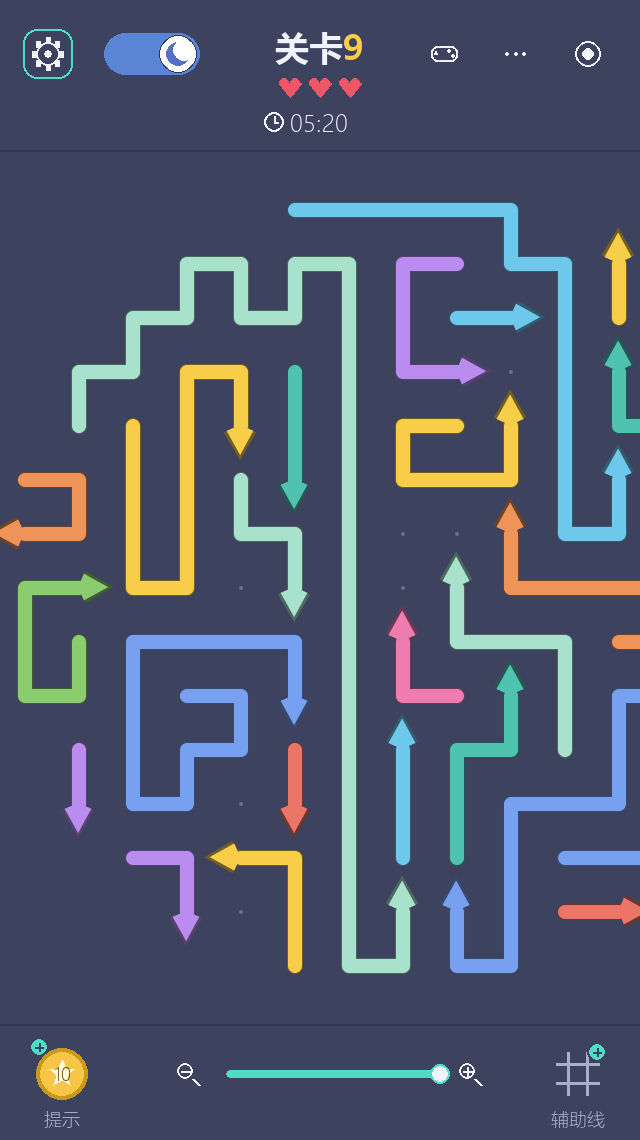
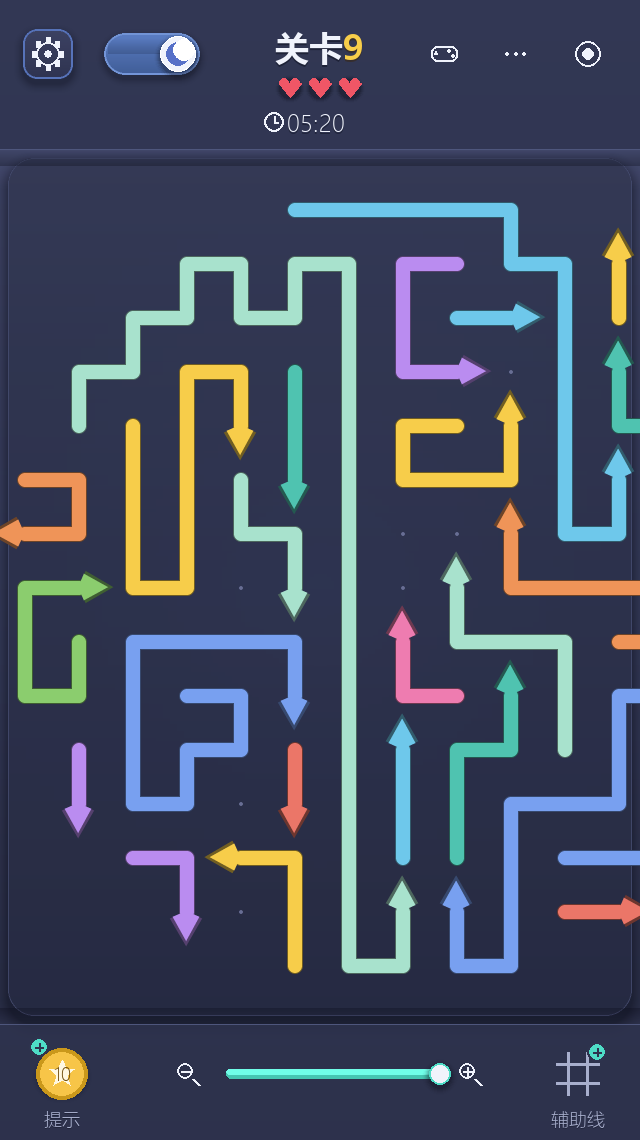
docs: 同步界面观感的说明、测试记录 T12 与重出的截图
- README：补「界面观感」一节（渐变背景 / 柔光 / 圆角面板 / 玻璃工具栏 / 按钮三态），项目结构加 paint.py 与 perf_bench.py，用例数 227，截图表补设置面板与日间结算
- docs/design.md：新增第 8 章「界面观感：渐变、柔光、投影、卡片」，写清 paint.py 的『参数 -> 预渲染贴图 -> 缓存 -> blit』套路、为什么大图要 2 倍画再缩回、缓存键为什么要含颜色、滑杆为什么不走缓存、以及各界面整帧耗时表；原「扩展功能清单」顺延为第 9 章
- docs/test-record.md：标题扩到 T12，新增 T12（34 个用例的像素级验证 + 排版回归 + 耗时），汇总改为 227 passed，已知限制补 paint.py 缓存的失效条件；顺带补上上一轮漏掉的 T11 标题与 193 passed
- AIGC记录.md：汇总表补第 15 条，新增「记录 I：界面美化 —— 用预渲染贴图 + 缓存换层次感」，复查提醒补 6 条
- assets/screenshots/ 重出 14 张（新增 settings.png、level_clear_day.png）

diff --git a/AIGC记录.md b/AIGC记录.md
@@ -23,10 +23,11 @@
 | 11 | 修复「关卡没有阻挡、无脑必通关」 | DeepSeek | 玩家反馈「关卡设计得互相没有阻挡，直接是必通关」，要求做成真的需要排序才能过 | 定位到生成器第二条约束（身体不许压在别人射线上）与第一条合起来等价于 `射线(a) ∩ 身体(b) = ∅`，数学上排除了任何阻挡；改为单约束 + 新增 `ray_pref` 难度旋钮，12 关全部重新生成并配出递减难度曲线 | 开局能直接点的箭从 12 关全部 100% 变为 67% → 11% 逐关递减；被挡比例 33% → 89%；填充率反而从 0.92 升到 0.94 ~ 1.00 | 先写诊断脚本量出「100% 可飞、0% 被挡」才动手改；把当初锁住这个 bug 的测试改成反向断言 |
 | 12 | 求解器重写为拓扑排序 | DeepSeek | 关卡有阻挡后，提示与 AI 自动通关开始报「这一步好像卡住了」 | 发现原 DFS + 记忆化在平均四五支可飞、深度二十层的盘面上会指数爆炸，60 万节点上限打满，**把有解的关卡判成无解**；改为「谁挡谁」建图 + Kahn 拓扑排序，O(n²) 精确求解，有环才判无解 | 12 关全部毫秒级求解成功；新增 `tests/test_blocking.py` 覆盖阻挡链 / 环路 / 性能 | 补「求解器入度为 0 的集合必须与棋盘可飞集合完全一致」的交叉验证测试 |
 | 13 | 修复飞出动画不平滑（转弯处抖动） | DeepSeek | 玩家反馈「线飞出去的时候不够平滑，特别是转弯处」 | 定位到飞出采样只按整格取点，落在两采样点之间的拐角被连成一条斜弦切掉，且随相位每秒「削平复原」26 次；改为取折线真正的一段（`flow_points`，长度守恒），圆点与箭头改用 4 倍超采样贴图做抗锯齿，描边只在拐点与两端补圆点，单帧步进加 50 ms 上限 | 转弯处不再抖动，线在飞行中厚度与长度恒定；新增 `tests/test_motion.py` 22 个用例，全量 150 个用例通过，整帧 4.3 ms | 先量化（采样点、折线长度、像素厚度）再动手；否掉「整幅画面超采样」改用两处小贴图；发现 `.git` 对象库损坏后从远端恢复仓库并关掉 `gc.auto` |
+| 15 | 界面 / 背景 / 按钮美化 | DeepSeek | 玩家反馈「界面、背景、按钮等再美化一下」 | 新增 `game/paint.py`：竖向渐变、径向柔光、圆角投影、卡片面（渐变+圆角+细描边+顶部高光+投影）、文字阴影，全部按参数预渲染并缓存；`theme.py` 补 17 个层次配色字段（日夜各一套）；背景改渐变+柔光，棋盘垫圆角面板，顶底栏改半透明玻璃+渐隐阴影，按钮/卡片/菜单项/滑杆全部改渐变+描边+投影，按钮悬停提亮描边、按下下沉 2 像素 | 界面有了层次，不再是「纯色底 + 硬描边」；新增 `tests/test_paint.py` 34 个用例，全量 227 个用例通过；`tools/perf_bench.py` 量得各界面整帧 2.45~5.72 ms，无回退 | 顺手修掉三处排版事故（开始页文字压在卡片外、选关页下半屏大片空白、菜单最后一项顶在面板底边上）；新增离屏截图 `settings.png` / `level_clear_day.png` 逐张人工核对 |
 
 ---
 
-## 详述：八条值得单独讲的记录
+## 详述：九条值得单独讲的记录
 
 ### 记录 A：环境问题 —— 为什么用 `pygame-ce` 而不是 `pygame`
 
@@ -215,6 +216,45 @@
 
 ---
 
+### 记录 I：界面美化 —— 用「预渲染贴图 + 缓存」换层次感
+
+- **工具**：DeepSeek
+- **提出的要求**：玩家反馈「界面、背景、按钮等再美化一下」。
+- **AI 完成内容**：
+  1. **先判断「平」在哪儿**：把六张截图并排看了一遍，问题很清楚 —— 背景是一块纯色、
+     没有任何明暗变化；按钮、卡片、菜单项都是「一块纯色 + 一圈硬描边」，跟背景糊在
+     一起；按下去只是换个颜色，没有任何物理反馈。所以要做的是**层次**，而不是换配色；
+  2. **单独的绘制模块**：新增 `game/paint.py`，提供五样原语 —— 竖向渐变、径向柔光、
+     圆角投影、卡片面（渐变填充 + 圆角裁剪 + 细描边 + 顶部高光 + 投影）、文字阴影。
+     统一走「参数 → 预渲染贴图 → 缓存 → blit」，颜色进缓存 key，切主题自动换一套；
+  3. **配色补齐**：`theme.py` 的 `Palette` 加了 17 个字段（渐变两端色、柔光色、栏面色
+     与分隔线、棋盘面板三色、卡片三色、顶部高光、投影参数、按钮三段色、强调色），
+     日夜各一套，旧字段一个没删；
+  4. **逐个套上去**：背景→渐变+柔光；棋盘→圆角面板（渐变+细描边+投影）；顶栏底栏→
+     半透明玻璃 + 1 像素分隔线 + 朝盘面一侧的渐隐阴影；按钮→渐变+描边+投影，悬停提亮
+     描边、按下下沉 2 像素并收起投影；菜单项→悬停加圆角高亮 + 左侧强调条；滑杆→凹槽
+     轨道 + 上下双色的已填充段；拨杆滑块、金币、红心都补了一层投影；
+  5. **顺带修掉三处排版事故**（都是画出来才看见的）：开始页的规则文字比卡片还宽、
+     直接压在卡片边框上；选关页下半屏空了一大片；菜单最后一项正好顶在面板底边上。
+- **实际效果**：界面从「纯色底 + 硬描边」变成有层次的卡片式界面；`tools/perf_bench.py`
+  量得各界面整帧 2.45~5.72 ms（最贵的是菜单展开，要整屏铺一层半透明遮罩），
+  远在 60 FPS 的 16.7 ms 预算之内。新增 `tests/test_paint.py`（34 个用例），
+  全量 227 个用例通过。
+- **人工修改**：
+  - **没有直接换配色**：先看截图定位到「缺层次」，才决定做渐变 + 投影 + 高光，
+    配色只是在原有基础上补齐了几组「成对」的色（深色端/浅色端、上色/下色）；
+  - 大图**统一按 2 倍画再缩回来**，圆角与描边就自带抗锯齿了 —— 比给每个圆角单独
+    做抗锯齿省事得多；缩小时透明处必须填成填充色，否则边缘渗黑（这个坑在记录 G
+    做圆点时已经踩过一次）；
+  - 滑杆的已填充段**故意不走去缓存的卡片贴图**：拖动时宽度每帧都变，缓存会被灌满
+    然后整片清空，反倒比直接画两个圆角矩形更费 —— 这是自己权衡后改掉的；
+  - 修菜单留白时没有直接拍一个更大的高度，而是把「项数 × 52 + 标题区 + 底部留白」
+    算成了公式，并把这个关系写进测试断言（`menu.rect.bottom - last.bottom >= 18`）；
+  - 写「线宽处处相等」这类断言时踩过一次自己量错行的坑（见记录 H），所以这次所有
+    像素断言都先打印实际值确认，再写死阈值。
+
+---
+
 ## 复查提醒（助教可能问到的点）
 
 - `can_fly_arrow` 为什么只看箭头射线、不需要检查身体路径？（因为身体沿自身折线滑出，不横扫）
@@ -253,3 +293,20 @@
 - 圆点直径为什么必须严格等于线宽？（pygame 画宽 `w` 的线涂的是 `y_center-(w-1)//2`
   起的 `w` 行，圆点若按画整数圆的老规矩取 `2r+1`，就比线宽多 1 像素，每个拐点、
   每个端头都会鼓出一小块 —— 这就是放大了看「线上挂着一串疙瘩」的真正原因）
+- 界面「美化」具体改了什么？（背景换成竖向渐变 + 一团柔光；棋盘垫在圆角面板上；
+  顶栏底栏做成半透明玻璃 + 渐隐阴影；按钮、卡片、菜单项、滑杆全部改成渐变填充 +
+  细描边 + 投影；按钮悬停提亮描边、按下下沉 2 像素并收起投影）
+- 为什么这些效果在 pygame 里要「预渲染成贴图」？（pygame 画不出柔边，渐变、柔光、
+  模糊投影都得先画好再贴；所以统一走「参数 → 贴图 → 缓存 → blit」，一帧只是几次
+  blit。缓存的 key 里包含全部颜色，切主题会自动换一套，不需要手动清）
+- 大图为什么要按 2 倍画再缩回来？（圆角、斜边、描边一次就都有抗锯齿了，比给每个
+  圆角单独做抗锯齿省事。缩小时透明处要填成填充色，否则边缘会渗黑）
+- 缓存有没有上限？滑杆为什么不走缓存？（有上限，超了就整片清空；滑杆已填充的那一段
+  宽度每帧都在变，走缓存会被不停灌满然后清空，反倒比直接画两个圆角矩形更费）
+- 加了这么多贴图，帧率还够吗？（`tools/perf_bench.py` 量的稳态：开始页 3.52 ms、
+  选关页 4.33 ms、第 1 关 2.45 ms、第 12 关 3.44 ms、飞行中 3.39 ms、菜单展开 5.72 ms，
+  都在 16.7 ms 的预算之内）
+- 怎么证明「美化」没有把排版或交互改坏？（`tests/test_paint.py` 34 个用例：像素级的
+  渐变 / 柔光 / 投影 / 卡片断言，按钮三态必须互不相同且按下下沉 2 像素，两套主题字段
+  齐全，6 个界面 × 2 套主题整页渲染且颜色数 > 6，菜单最后一项离底边 ≥ 18 像素，
+  以及「改了菜单项间距后点击仍然命中正确的项」）

diff --git a/docs/test-record.md b/docs/test-record.md
@@ -1,8 +1,8 @@
-# 测试记录（T01 – T10）
+# 测试记录（T01 – T12）
 
 - 运行环境：Windows 11 / Python 3.14.0 / pygame-ce 2.5.8 / pytest 9.x
 - 运行方式：项目根目录执行 `python -m pytest -q`（测试在 SDL dummy 驱动下无窗口运行）
-- 汇总结果：**104 passed**，耗时约 6.6 s
+- 汇总结果：**227 passed**，耗时约 12.2 s
 
 ---
 
@@ -244,7 +244,7 @@
       颜色（不是空盘 / 没画出来）；
   12. **引脚检查**：箭头不会大到跨出自己那一格；飞行中箭头画在线的前端。
 - **预期**：全部通过。
-- **实际**：43 个用例全过，全量 **193 个用例**全过。
+- **实际**：43 个用例全过，当轮全量 193 个用例全过。
   另用 `tools/screenshot.py` 重出 12 张截图（README 里用的那批）人工核对：
   线宽、箭头形态、描边浓淡与参考录屏基本一致，两条线挨着的地方也能分清了。
 - **结论**：线宽对齐参考图（格距的 0.30），箭头由等腰三角改为飞镖，整支箭加了一圈
@@ -254,11 +254,64 @@
 
 ---
 
+## T12 界面观感（背景渐变、柔光、投影、卡片、按钮三态）
+
+- **目的**：玩家反馈「界面、背景、按钮等再美化一下」，并防止「美化」把排版或
+  交互点坏。原来的界面是一块纯色底 + 一圈硬描边的扁平风格：背景没有任何层次，
+  按钮和卡片跟背景糊在一起，按下去除了换个颜色没有任何反馈。
+- **用例**：`tests/test_paint.py`（34 个用例）。
+- **做法**：新增 `game/paint.py` 提供五样「可缓存」的绘制原语 —— 竖向渐变、
+  径向柔光、圆角投影、卡片面（渐变 + 圆角 + 细描边 + 顶部高光 + 投影）、文字阴影；
+  配色补进 `theme.py`（渐变两端色、柔光色、栏面色与分隔线、卡片三色、顶部高光、
+  投影参数、按钮三段色，日夜各一套）；然后逐个套到背景、棋盘面板、顶栏底栏、
+  按钮、菜单面板、滑杆、拨杆与各界面卡片上。
+- **步骤**：
+  1. **渐变**：两端必须等于给定色、逐行单调、同一行横向完全同色（别把渐变做成斜的）；
+     再次调用命中缓存（同一个对象）；
+  2. **柔光**：中心 alpha 最亮、向外单调衰减、最边缘接近全透明；所有半透明像素的
+     RGB 必须等于柔光自身的颜色（混进黑色就是缩小时渗了黑边）；
+  3. **投影**：沿中线往外采样，alpha 单调变淡，最外圈几乎为 0；底图尺寸要算上
+     向下偏移的那一截；四周确实变暗，而**卡片本体那一块不许被涂脏**；
+  4. **卡片**：圆角真的切掉（角上 alpha=0、正中 alpha=255）、竖向渐变、描边落在
+     形状内侧、`alpha<255` 时整块按比例半透明、有投影时 offset 正好等于留白量、
+     `draw_card` 落位精准、`draw_panel` 取的是主题的卡片三色；
+  5. **缓存**：按参数分键；连续申请 `_CACHE_LIMIT + 40` 张不同尺寸的底图之后，
+     条数仍然不超过上限（不然拖滑杆会一路把内存灌满）；
+  6. **文字阴影**：垫了阴影之后，被涂到的行数正好往下多出 offset 的量，
+     多出来的那几行里确实有投影像素；
+  7. **按钮三态**：常态 / 悬停 / 按下三张图的像素必须两两不同；按下时整体下沉
+     2 像素（原顶边那两行空了）、并且收起投影；`ghost` 次按钮明显比主按钮「安静」；
+  8. **主题**：两套主题的新字段都齐全（3 通道、0~255），`card_shadow` 是
+     `(spread, alpha, color, dy)`；夜间背景与按钮确实比日间暗；
+  9. **整页渲染**：6 个界面状态 × 日夜两套主题各渲染一遍，不崩、且画面里的颜色数
+     超过 6 种（背景退化成一整块纯色会被这条抓住）；背景上下两端的颜色必须不同
+     （渐变真的在）；
+  10. **排版回归**：菜单 / 设置面板的最后一项离底边至少留 18 像素（真的踩到过
+      「最后一项顶在面板底边上」）；开始页「进度卡 → 按钮 → 次按钮」依次不重叠；
+      改了 `_item_rect` 的间距之后，点击命中仍然落在正确的菜单项上；
+  11. **耗时**：连画 20 帧，平均每帧 < 40 ms（阈值放得很宽，只抓明显回退）。
+- **预期**：全部通过。
+- **实际**：34 个用例全过，全量 **227 个用例**全过。
+  另用 `tools/perf_bench.py` 量了各界面在日夜两套主题下的整帧耗时（缓存建好后的稳态）：
+  开始页 3.52 ms、选关页 4.33 ms、第 1 关 2.45 ms、第 12 关 3.44 ms、
+  第 12 关飞行中 3.39 ms、菜单展开 5.72 ms、日间第 12 关 3.39 ms，
+  都远在 60 FPS 的 16.7 ms 预算之内。
+  截图侧新增两张（`settings.png`、`level_clear_day.png`），连同其余 12 张一起重出，
+  逐张人工核对过。
+- **结论**：背景有了渐变与柔光、棋盘垫在圆角面板上、工具栏变成半透明玻璃并带渐隐
+  阴影、按钮与卡片有渐变与投影、按下会下沉；界面层次分明，整帧耗时没有回退。
+
+---
+
 ## 未覆盖 / 已知限制
 
 - `game/audio.py` 的音效只在有真实音频设备时才会响，测试环境用 dummy 驱动，只验证了
   「初始化失败时不崩溃」。
-- `game/hud.py`、`game/icons.py` 的绘制正确性靠 `tools/screenshot.py` 离屏出图人工核对，
-  没有做像素级断言（顶栏 / 底栏 / 菜单 / 日间主题各出一张图）。
+- `game/hud.py`、`game/icons.py` 的**具体画法**仍然靠 `tools/screenshot.py` 离屏出图人工
+  核对（顶栏 / 底栏 / 菜单 / 设置 / 日间主题各出一张图），没有逐个图标做像素断言；
+  它们依赖的 `game/paint.py` 原语（渐变 / 柔光 / 投影 / 卡片）已经有像素级测试（T12）。
+- `game/paint.py` 的贴图缓存是模块级的全局字典，键里包含了全部颜色参数，所以切主题、
+  改配色都会自然命中新键。**代价是**：如果以后给它加一个「不带颜色」的参数（比如随
+  时间变化的动画量），记得那个键要显式塞进时间戳，否则会一直返回第一帧的贴图。
 - 随机关卡的质量依赖随机种子，`random_level()` 有兜底逻辑（逐个形状重试 + 矩形退化），
   但没有对「每一局都必然生成成功」做穷举验证。

diff --git a/docs/design.md b/docs/design.md
@@ -333,7 +333,107 @@ def flow_points(route, n_cells, offset):
 `clock.tick()` 可能一次返回几百毫秒，飞行线一步就跨过好几格，看起来像「瞬移」了一下；
 夹住上限之后，宁可让动画慢半拍，也不会让它跳。
 
-## 8. 扩展功能清单
+## 8. 界面观感：渐变、柔光、投影、卡片
+
+原来的界面是一块纯色底加一圈硬描边 —— 功能没问题，但画面是「平」的：背景没有层次，
+按钮、卡片跟背景糊在一起，按下去除了换个颜色没有任何反馈。第 8 节做的就是把层次拉开。
+所有原语都在 `game/paint.py`，配色都从 `theme.py` 取。
+
+### 8.1 为什么单独开一个 `paint.py`
+
+这些效果都是「同样的形状反复画」，而 pygame 里做柔边只能靠**预先画好再贴**。所以统一
+走一套「参数 → 预渲染贴图 → 缓存 → blit」的套路：
+
+```python
+def _cached(key, build):
+    value = _CACHE.get(key)
+    if value is None:
+        if len(_CACHE) >= _CACHE_LIMIT:      # 上限，防止无节制地灌
+            _CACHE.clear()
+        value = _CACHE[key] = build()
+    return value
+```
+
+**key 里包含全部颜色参数**，所以切主题不需要手动清缓存：颜色一变，键就变了，自然
+build 出新的一套。代价见「已知限制」——将来若加了跟颜色无关的动态参数（比如随时间
+变化的量），必须显式把那个参数塞进 key。
+
+大图（卡片、面板）一律**按 2 倍画再 `smoothscale` 缩回来**：圆角与描边因此自带抗锯齿，
+渐变也更顺。缩小时透明处要填成填充色（`body.fill((*fill, 0))`），否则取平均时会把黑
+混进边缘 —— 这个坑在做线段圆点时已经踩过一次（见 7.2）。
+
+### 8.2 整页背景：竖向渐变 + 一团柔光
+
+```python
+self.canvas.blit(paint.vertical_gradient(
+    (WINDOW_WIDTH, WINDOW_HEIGHT), pal.bg_top, pal.bg_bottom), (0, 0))
+paint.blit_glow(self.canvas, center, 430, pal.glow, 62, 2.3)
+```
+
+- 渐变先画一条 **1 像素宽的色带**（只算 height 次颜色插值），再横向拉满 —— 逐行 fill
+  比逐像素算快得多，横向又完全不需要计算；
+- 柔光先在一张 **64×64 的小图**上按 `(1 - d) ** softness` 算衰减，再 `smoothscale` 放大：
+  放大本身就把阶梯抹平了，代价只剩 4096 次循环；
+- 柔光的中心跟着棋盘中心走（`_view_center()`），视线自然落在盘面上；菜单与开始页则
+  固定在画面中上部。
+
+### 8.3 栏与棋盘面板：半透明玻璃 + 渐隐阴影
+
+顶栏 / 底栏做成一层**半透明面板**（`alpha≈208`）+ 一条 1 像素分隔线 + 朝盘面那一侧的
+渐隐阴影（`edge_fade`，从实色线性衰减到全透明）。好处是棋盘铺到底下时还能透出来一点
+（放大拖动时尤其明显），而文字和图标因为有底衬始终有对比度。
+
+棋盘本身垫在一块圆角面板上（比可视区小 16 像素），渐变 + 细描边 + 投影 —— 盘面因此
+是「一块台面」，而不是一堆飘在背景上的线段。放大拖动时棋盘可以铺到面板外面去，
+这反而强化了「看得见的只是其中一块」的感觉。
+
+### 8.4 卡片与按钮：三段式 + 三态
+
+一张卡片由三段组成，`card_surface()` 一次画齐：
+
+| 段 | 做法 |
+|---|---|
+| 填充 | 竖向渐变，圆角用一张 `BLEND_RGBA_MULT` 圆角遮罩裁出来 |
+| 高光 | 顶部一团柔光（`sheen`），模拟「光从上面打下来」 |
+| 描边 | 在裁剪**之后**画，1~3 像素，正好压住边缘 |
+| 投影 | 一组同心圆角矩形，越外圈 alpha 越低（`_paint_shadow`），模拟高斯模糊 |
+
+按钮在此基础上多一层**状态**：悬停把渐变提亮 16 并换成强调色描边；按下把渐变压到
+0.86、整体下沉 2 像素、同时收起投影 —— 「按下去」这件事有物理感，而不只是换个颜色。
+同一屏里的主次按钮用 `kind` 区分：`primary` 是蓝紫渐变实心，`ghost` 跟卡片同色只留
+一圈描边，两个按钮不会互相抢眼。
+
+滑杆的轨道做成凹槽（底色压暗 + 上缘暗影），已填充的一段用上下两个圆角矩形做出一点
+光泽。**这里刻意不走去缓存的卡片贴图**：拖动时宽度每帧都在变，缓存会被不停灌满然后
+整片清空，反倒比直接画两个圆角矩形更费。
+
+### 8.5 顺带调整的几处排版
+
+| 界面 | 调整 |
+|---|---|
+| 开始页 | 规则说明与进度各装进一张卡片（原来是一堆字飘在空背景上）；按钮整体下移，和进度卡之间留出间距 |
+| 选关页 | 卡片加大到 124 并上移；下方补一张「已通关 / 进度条 / 累计星数」的进度卡，填掉原来那片空白 |
+| 菜单 | 面板高度按「项数 × 52 + 标题区 + 底部留白」重算 —— 之前 6 项时最后一项正好顶在面板底边上 |
+| 结算 | 面板投影压得更重（画面里最高的一层）；标题按结果染色（通关绿 / 失败红 / 全清金），满星额外加一圈金色柔光 |
+
+### 8.6 性能
+
+`tools/perf_bench.py` 量的是「缓存建好之后的稳态」每帧耗时（`_draw` 一次）：
+
+| 界面 | 中位 | 最大 |
+|---|---|---|
+| 开始页 | 3.52 ms | 4.47 ms |
+| 选关页 | 4.33 ms | 5.71 ms |
+| 第 1 关（静态） | 2.45 ms | 3.43 ms |
+| 第 12 关（静态） | 3.44 ms | 4.17 ms |
+| 第 12 关（飞行中） | 3.39 ms | 3.92 ms |
+| 菜单展开 | 5.72 ms | 6.86 ms |
+| 第 12 关（日间） | 3.39 ms | 5.10 ms |
+
+都远在 60 FPS 的 16.7 ms 预算之内。最贵的是「菜单展开」—— 除面板本身，还要整屏铺
+一层半透明遮罩。
+
+## 9. 扩展功能清单
 
 | 扩展 | 位置 |
 |---|---|

diff --git a/README.md b/README.md
@@ -64,6 +64,10 @@ python main.py
   15 px 上限对齐）；箭头是一枚**飞镖**而非等腰三角（两枚倒钩前掠、后缘向内兜住线身），
   整支箭外面再描一圈比线身压暗一档的**外描边**（色相不变，深色底压狠、浅色底压轻），
   线与线挨在一起时不会糊成一片。详见 `docs/design.md` 7.2。
+- **界面观感**：整页背景是竖向渐变 + 棋盘后方一团柔光；棋盘垫在一块圆角面板上；
+  顶栏底栏是半透明「玻璃」加一道渐隐阴影；按钮、卡片、菜单项、滑杆都是渐变填充 +
+  细描边 + 投影，悬停提亮描边、按下整体下沉 2 像素。所有贴图都按参数缓存，
+  一帧只是几次 `blit`。详见 `docs/design.md` 第 8 节。
 
 ## 项目结构
 
@@ -73,6 +77,7 @@ arrow-after-arrow/
 ├── game/
 │   ├── settings.py            # 全局配置：窗口尺寸、布局、线宽、两套箭头调色板
 │   ├── theme.py               # 日间 / 夜间两套界面配色 + 箭头配色解析
+│   ├── paint.py               # 柔和绘制：渐变、柔光、投影、卡片、文字阴影（全缓存）
 │   ├── arrow.py               # 方向枚举、线段宽度、圆角折线与箭头绘制
 │   ├── shapes.py              # 关卡造型遮罩：矩/圆/菱/心/三角/十字/沙漏/环
 │   ├── generator.py           # 逆向构造法关卡生成器 + 通关校验 + 阻挡难度旋钮
@@ -88,11 +93,12 @@ arrow-after-arrow/
 │   └── states.py              # 游戏状态枚举
 ├── tools/
 │   ├── generate_levels.py     # 重新生成 game/level.py（支持单关重生成与 --check）
-│   └── screenshot.py          # 无窗口离屏渲染，批量导出 assets/screenshots/
-├── tests/                     # pytest：路径 / 生成器 / 阻挡 / 求解器 / 存档 / 窗口 / 缩放拖动 / 动效 / 线段渲染 / 端到端
+│   ├── screenshot.py          # 无窗口离屏渲染，批量导出 assets/screenshots/
+│   └── perf_bench.py          # 整帧耗时基准（各界面 × 日夜主题）
+├── tests/                     # pytest：路径 / 生成器 / 阻挡 / 求解器 / 存档 / 窗口 / 缩放拖动 / 动效 / 线段渲染 / 界面观感 / 端到端
 ├── docs/
 │   ├── design.md              # 设计说明：数据结构、算法、界面布局、动效
-│   └── test-record.md         # T01–T11 测试记录
+│   └── test-record.md         # T01–T12 测试记录
 ├── assets/screenshots/        # 游戏截图
 ├── AIGC记录.md                # AIGC 使用记录
 ├── requirements.txt
@@ -102,11 +108,12 @@ arrow-after-arrow/
 ## 测试与工具
 
 ```bash
-python -m pytest -q                    # 150 个用例，无窗口运行
+python -m pytest -q                    # 227 个用例，无窗口运行
 python tools/generate_levels.py        # 重新生成 12 关
 python tools/generate_levels.py --check  # 校验现有 level.py：可通、可解、有阻挡
 python tools/generate_levels.py --stats  # 打印 12 关的难度表
 python tools/screenshot.py             # 重新导出 README 用的截图
+python tools/perf_bench.py             # 打印各界面 × 日夜主题的整帧耗时
 ```
 
 ## 游戏截图
@@ -126,3 +133,7 @@ python tools/screenshot.py             # 重新导出 README 用的截图
 | 飞行中的一帧（线正沿自身折线滑出，尾迹逐格点亮） | 放大后拖到一侧（可见区只剩棋盘的一部分） |
 |---|---|
 | ![飞出](assets/screenshots/playing_flying.png) | ![缩放拖动](assets/screenshots/playing_zoom_pan.png) |
+
+| 设置面板 | 日间主题的通关结算 |
+|---|---|
+| ![设置](assets/screenshots/settings.png) | ![日间结算](assets/screenshots/level_clear_day.png) |
